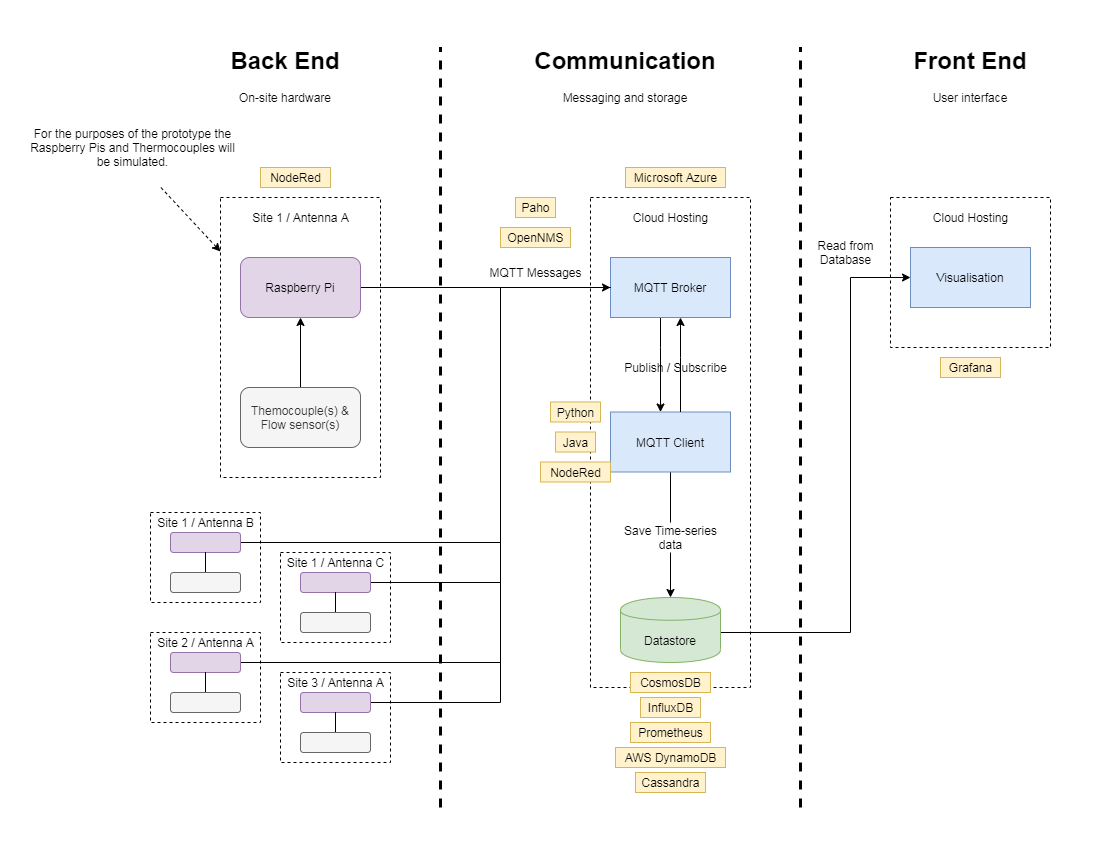
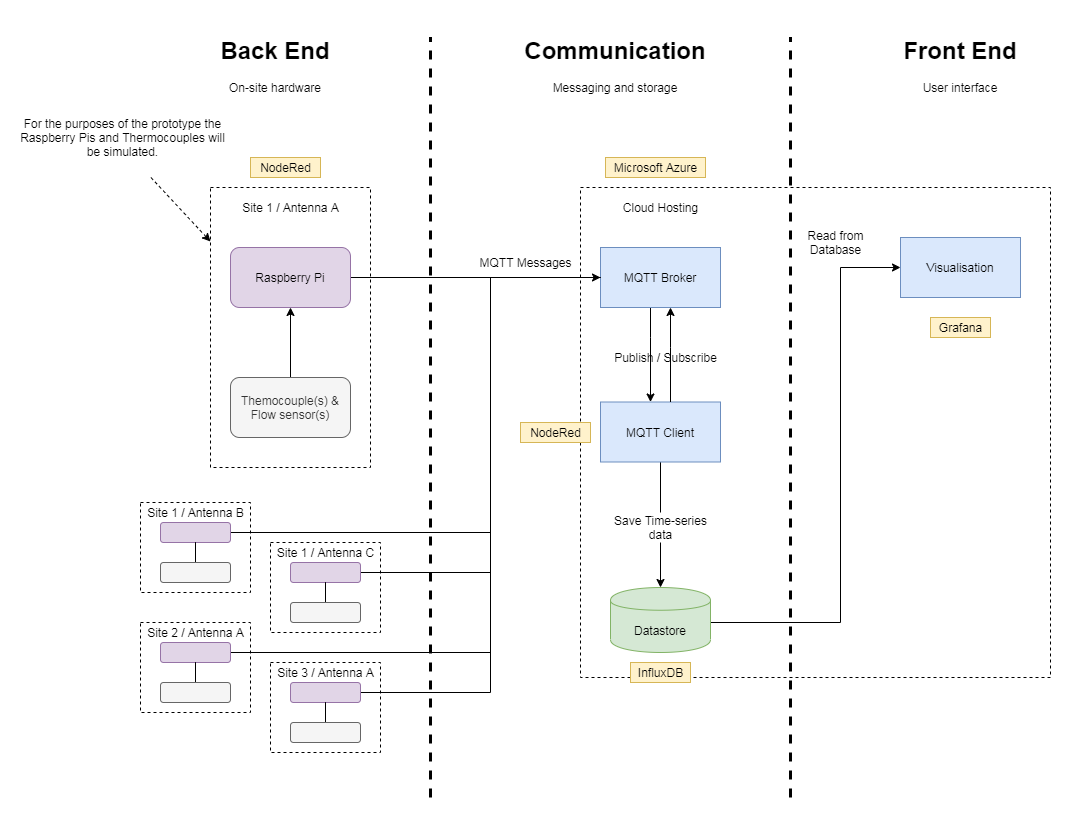
fix[arch_diag]: remove unused technologies and update write-up

diff --git a/Architecture Diagram/README.md b/Architecture Diagram/README.md
@@ -3,9 +3,9 @@ This diagram shows an overview of the proposed system.
 
 ![Architecture Diagram](architecture_diagram.png)
 
-The on-site hardware will include Raspberry Pis that periodically (every 15 minutes) transmit sensor readings from the attached thermocouples and flow sensors to a shared message broker.
+The on-site hardware includes Raspberry Pis that periodically transmit sensor readings from the attached thermocouples and flow sensors to a shared message broker.
 
-Each message will contain:
+Each message contains:
 - The region/site/transmitter path that the readings come from 
 - The time that the readings were taken
 - The flow rate during the readings
@@ -14,4 +14,4 @@ Each message will contain:
 - The temperature after the test load
 - The calculated power
 
-These messages are automatically saved from the broker into storage, where they are later loaded into a visualisation suite for display to a user. The visualisation component will also handle monitoring values and alerts. 
+These messages are automatically saved from the broker into storage, where they are later loaded into a visualisation suite for display to a user. The visualisation component also handles monitoring values and alerts. 
